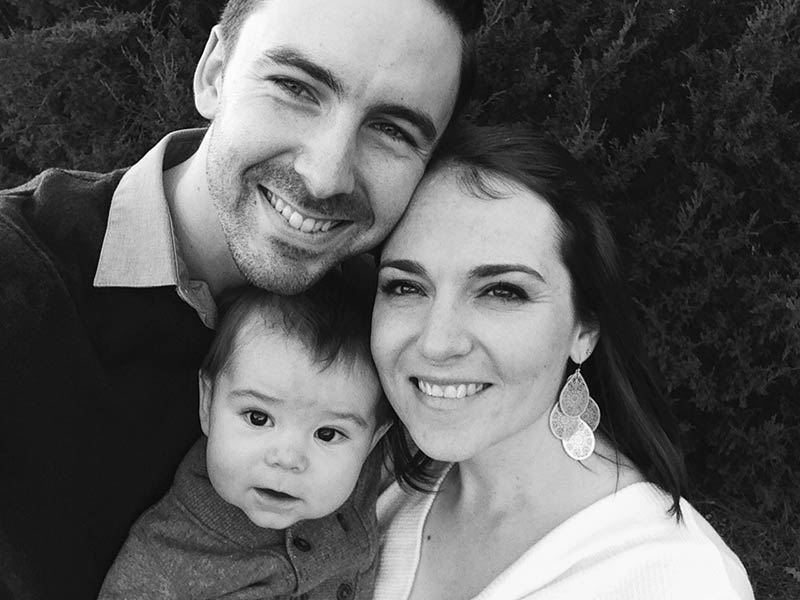
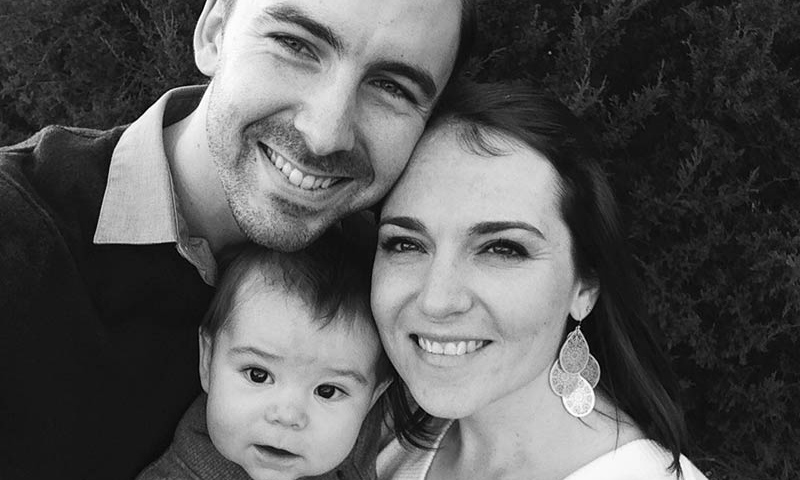
Updates to About stuff.

diff --git a/source/about.html.md b/source/about.html.md
@@ -3,13 +3,11 @@ layout: page
 title: About
 ---
 
-![Baxter Family](about/me.jpg){: .u-image-right .u-width-33 .u-width-small-100} I'm Matt Baxter, a designer and developer in the Dallas, TX metroplex. While I graduated with a degree in Computer Engineering, I'm passionate about user experience and focus much of my time on design.
+I'm Matt Baxter, a designer and developer in the Dallas, TX metroplex. While I graduated with a degree in Computer Engineering, I'm passionate about user experience and focus much of my time on design.
 
-I work at [projekt202](http://projekt202.com "projekt202") where I get to help different companies solve interesting problems in software, from web to native apps. I'm interested in both the technology and design of software, so I spend a lot of time in both. To me, software isn't just compiled code or perfectly arranged pixels; software is a digital product that people use and experience.
+I work at [projekt202](http://projekt202.com "projekt202") where I get to help companies solve interesting problems in software, from web to native apps. I'm interested in both the technology and design of software, so I spend a lot of time in both. To me, software isn't just compiled code or perfectly arranged pixels; software is a digital product that people use and experience.
 
-![Baxter Family](about/baxter-family.jpg){: .u-image-left .u-width-33 .u-width-small-100} I'm married to my wonderful wife, Erin (who has an [awesome marriage blog](http://mystery32.com "Mystery32")). I have a son, Isaac, who is almost 2 years old and makes every day fun and exciting. I also have a daughter, Hallie, who is coming in June of 2015. I'm a believer in Jesus Christ, a coffee snob, a gamer, a whiskey and beer drinker, a [doodler](http://sketch.mbxtr.com "My sketch blog"), and I have a bad habit of wearing skinny jeans.
-
-On this site, you'll find my thoughts on things ranging from design, technology, coffee, to life in general.
+![Baxter Family](about/baxter-family.jpg){: .u-image-left .u-width-50 .u-width-small-100} I'm married to my wonderful wife, Erin (who has an [awesome marriage blog](http://mystery32.com "Mystery32")). I have a son, Isaac, who is almost 2 years old and makes every day fun and exciting. I also have a daughter, Hallie, who is coming in June of 2015. I'm a believer in Jesus Christ, a coffee snob, a gamer, a whiskey and beer drinker, a [doodler](http://sketch.mbxtr.com "My sketch blog"), and I have a bad habit of wearing skinny jeans.
 
 Want to chat? Reach out on [Twitter](http://twitter.com/mbxtr "Tweet at me, bro") or [e-mail me](mailto:matt.baxter@gmail.com "E-mail me").
 
